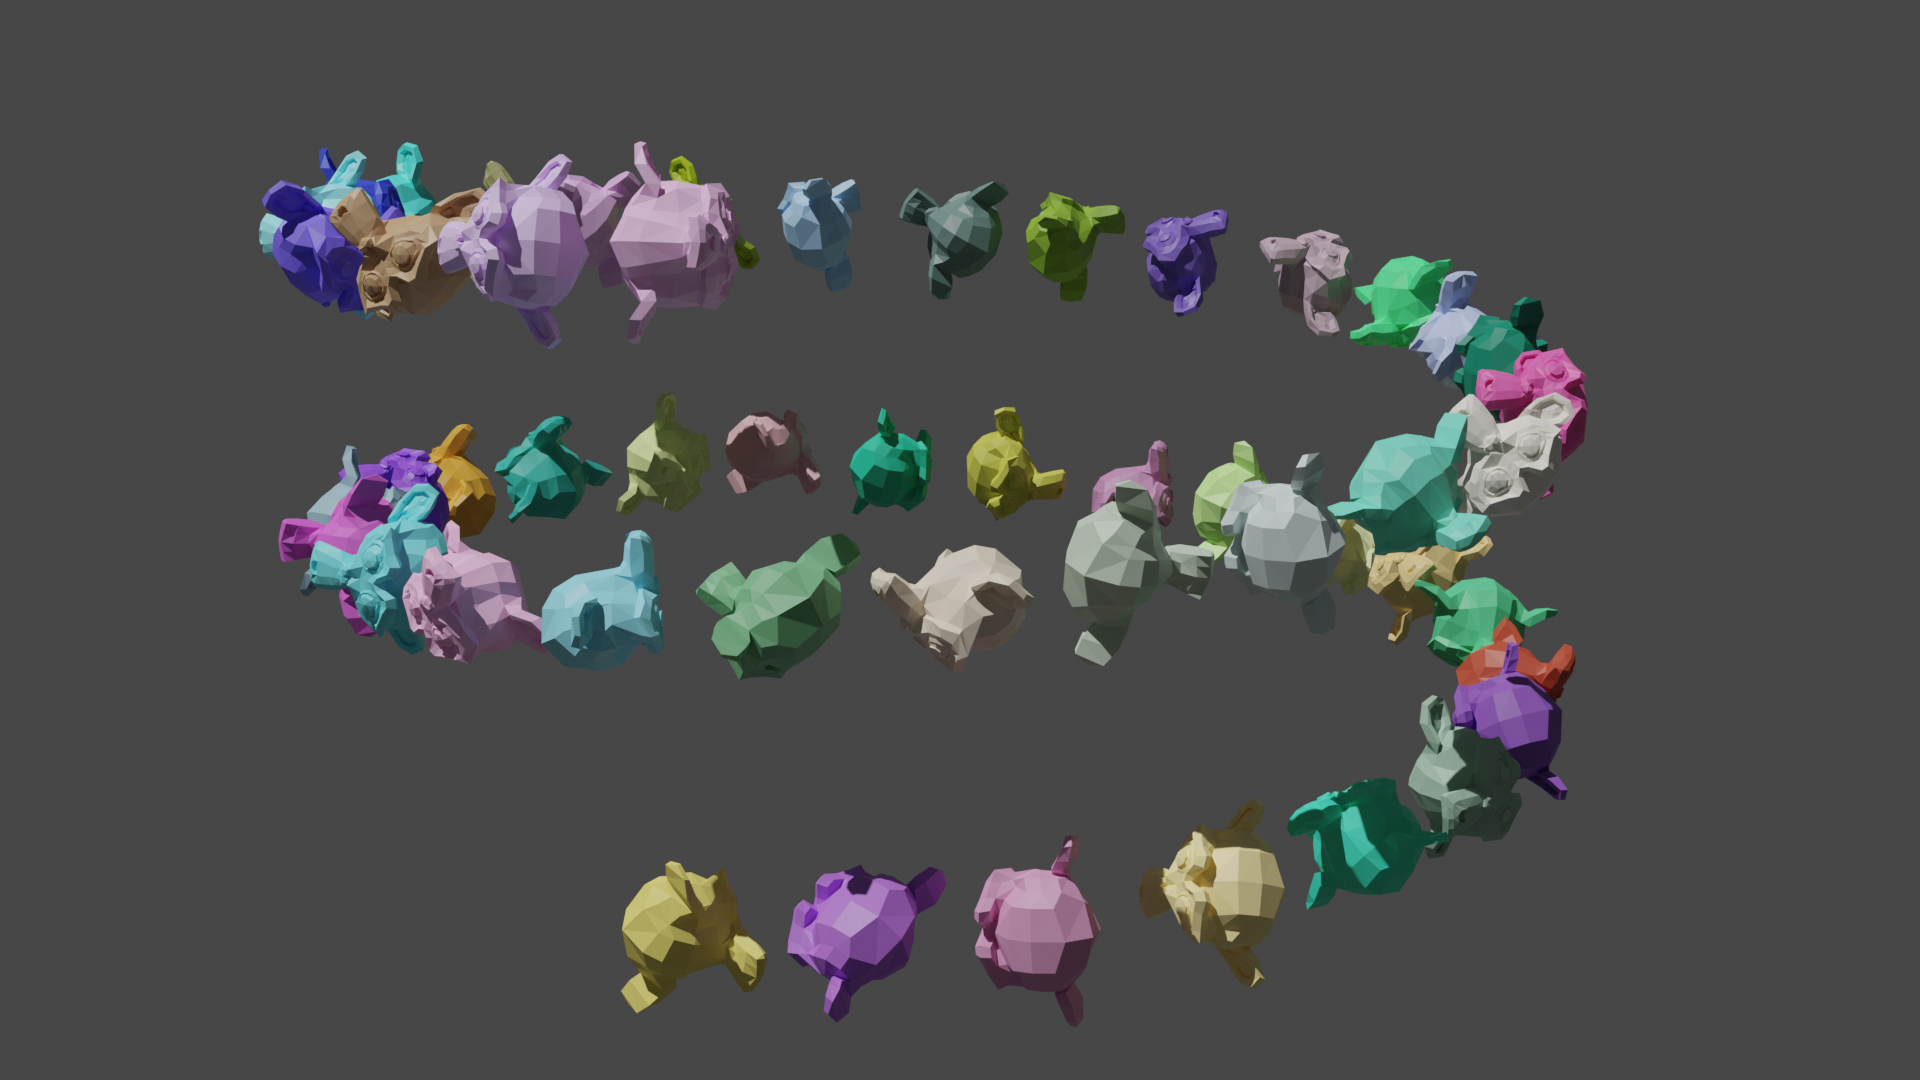
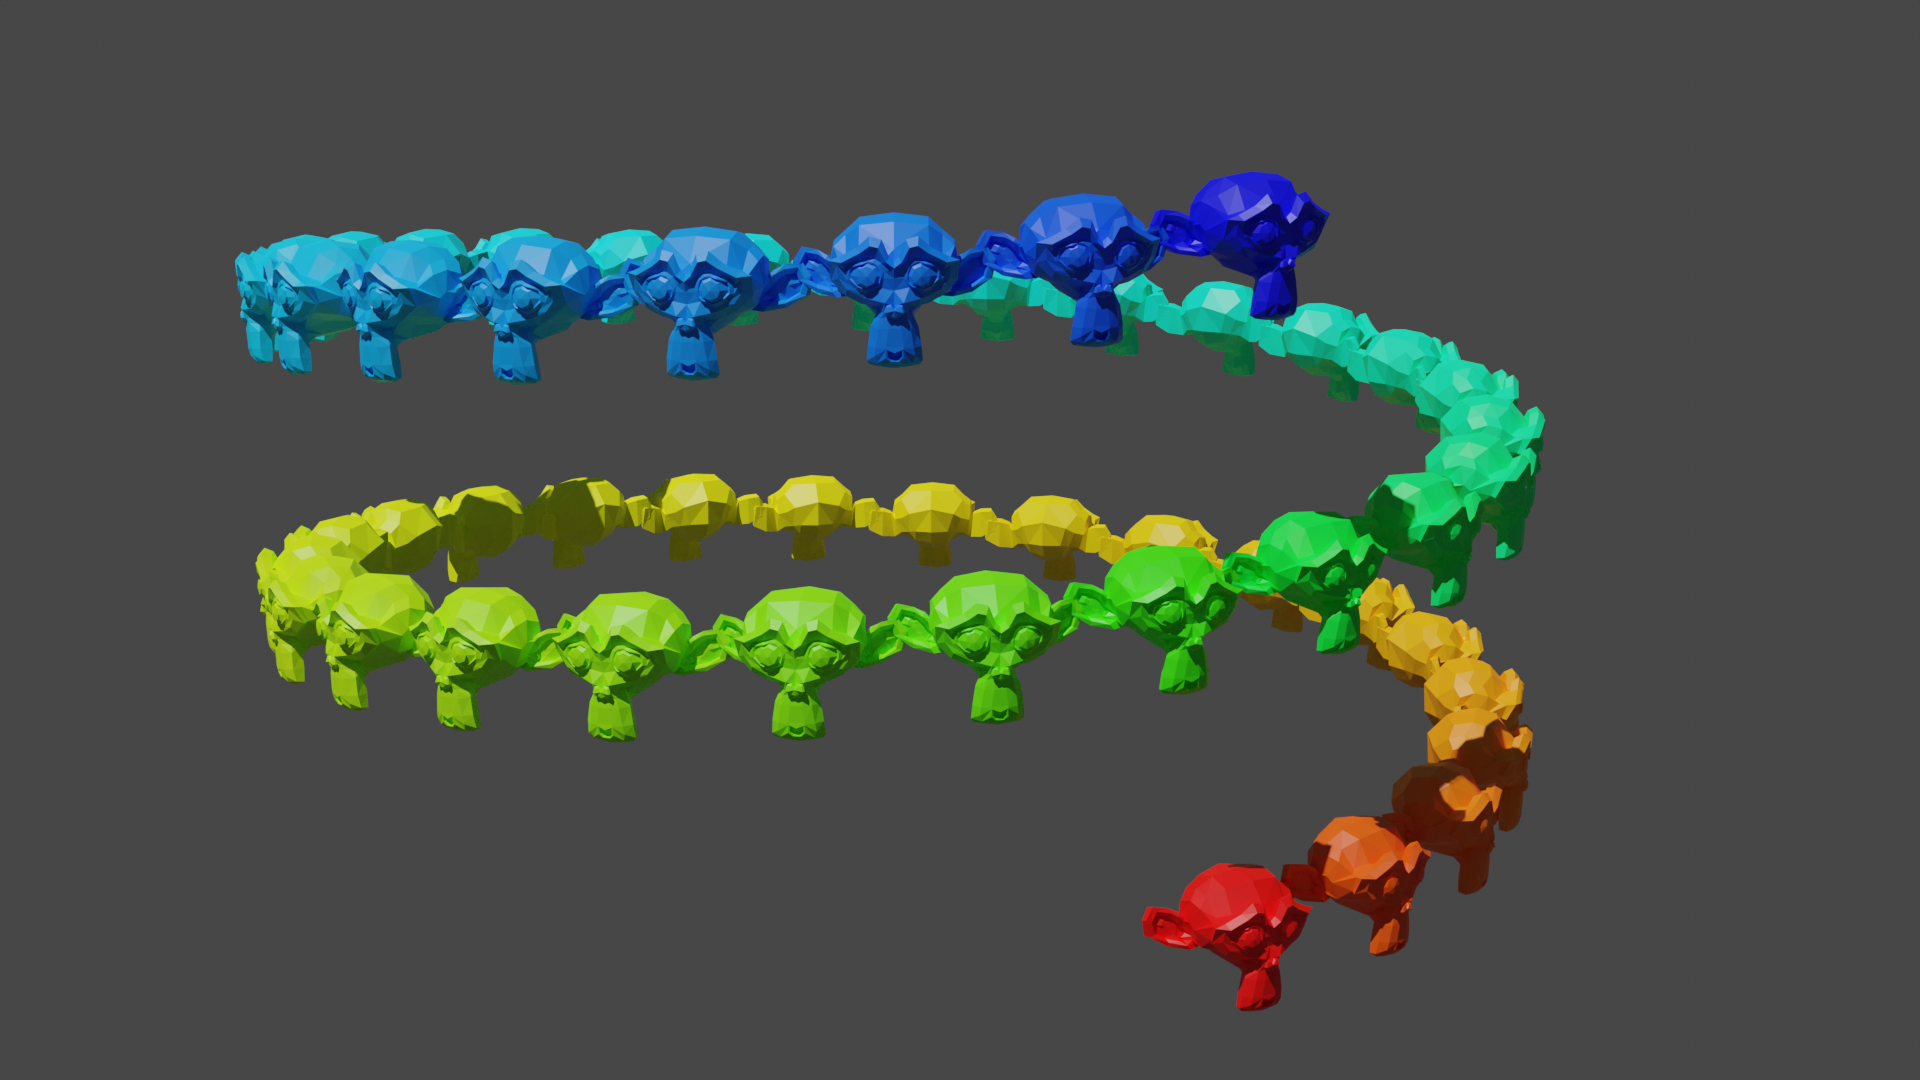
add support for setting marker rotations

Changed region(s): [[0.125, 0.1222, 0.8438, 0.9472]]

diff --git a/blender_plots/scatter.py b/blender_plots/scatter.py
@@ -1,10 +1,12 @@
 import numpy as np
 
 import bpy
+import mathutils as mu
 import blender_plots.blender_utils as bu
 
 FRAME_INDEX = "frame_index"
-POINT_COLOR = "point_color"
+MARKER_COLOR = "marker_color"
+MARKER_ROTATION = "marker_rotation"
 MARKER_TYPES = {
     "cones": "GeometryNodeMeshCone",
     "cubes": "GeometryNodeMeshCube",
@@ -30,11 +32,14 @@ class Scatter:
         name: name to use for blender object. Will delete any previous plot with the same name.
         marker_type: select appearance of points. Either MARKER_TYPE, "spheres", bpy_types.Mesh or bpy_types.Object
         marker_scale: xyz scale for markers
+        marker_rotation: Nx3 (euler angles in radians) or Nx3x3 (rotation matrices) array specifying the rotation for
+            each marker. Or "random" for applying a random rotation to each marker.
+        randomize_rotation: If set to True randomize the rotation of each marker. Overrides marker_rotation.
         marker_kwargs: additional arguments for configuring markers
     """
 
     def __init__(self, x, y=None, z=None, color=None, name="scatter", marker_type="cubes", marker_scale=None,
-                 randomize_rotation=False, **marker_kwargs):
+                 marker_rotation=None, randomize_rotation=False, **marker_kwargs):
         self.name = name
         self.base_object = None
         self.mesh = None
@@ -54,6 +59,7 @@ class Scatter:
                 **marker_kwargs
             )
         self.color = color
+        self.marker_rotation = marker_rotation
 
     @property
     def points(self):
@@ -72,7 +78,7 @@ class Scatter:
             self.mesh.vertices.foreach_set("co", self._points.reshape(-1))
 
         if self.n_frames is not None:
-            set_vertex_attribute(
+            bu.set_vertex_attribute(
                 self.mesh, FRAME_INDEX,
                 np.arange(0, self.n_frames)[None].repeat(self.n_points, axis=1).reshape(-1)
             )
@@ -94,21 +100,45 @@ class Scatter:
 
     def update_color(self):
         if self._color is not None:
-            match self._color.shape:
-                case (self.n_frames, self.n_points, 3 | 4):
-                    color = self._color.reshape(self.n_frames * self.n_points, -1)
-                case (self.n_points, 3 | 4):
-                    color = np.tile(self._color, (self.n_frames, 1)) if self.n_frames is not None else self._color
-                case (3 | 4, ):
-                    color = np.tile(self._color, (len(self.mesh.vertices), 1))
-                case _:
-                    raise ValueError(
-                        f"Invalid color shape: {self._color.shape} with {self.n_frames=}, {self.n_points=}")
-
+            color, _ = self.tile_data(self._color, [[3], [4]], "color")
             set_vertex_colors(self.mesh, color)
             self.color_material = get_vertex_color_material()
             self.mesh.materials.append(self.color_material)
             self.marker_modifier["Input_2"] = self.color_material
+
+    @property
+    def marker_rotation(self):
+        return self._marker_rotation
+
+    @marker_rotation.setter
+    def marker_rotation(self, marker_rotation):
+        self._marker_rotation = np.array(marker_rotation) if marker_rotation is not None else marker_rotation
+        self.update_marker_rotation()
+
+    def update_marker_rotation(self):
+        if self._marker_rotation is not None:
+            marker_rotation, rotation_dims = self.tile_data(self._marker_rotation, [[3], [3, 3]], "marker rotation")
+            if rotation_dims == [3, 3]:
+                marker_rotation = np.stack([np.array(mu.Matrix(r).to_euler()) for r in marker_rotation])
+            bu.set_vertex_attribute(self.mesh, MARKER_ROTATION, marker_rotation, "FLOAT_VECTOR")
+
+    def tile_data(self, data_array, valid_dims, name=""):
+        """Tile or reshape data_array with shape NxTx(dims), Nx(dims) or (dims) to shape (N*T)x(dims)."""
+        match data_array.shape:
+            case (self.n_frames, self.n_points, *dims) if dims in valid_dims:
+                out_array = data_array.reshape(self.n_frames * self.n_points, *dims)
+            case (self.n_points, *dims) if dims in valid_dims:
+                if self.n_frames is not None:
+                    out_array = np.tile(data_array, (self.n_frames, *([1] * len(dims))))
+                else:
+                    out_array = data_array
+            case (*dims, ) if dims in valid_dims:
+                n_points_total = self.n_points * (1 if self.n_frames is None else self.n_frames)
+                out_array = np.tile(data_array, (n_points_total, *([1]*len(dims))))
+            case _:
+                raise ValueError(
+                    f"Invalid {name} data shape: {data_array.shape} with {self.n_frames=}, {self.n_points=}")
+        return out_array, dims
 
 
 def get_points_array(x, y, z):
@@ -148,42 +178,34 @@ def get_points_array(x, y, z):
     return points, n_frames, n_points
 
 
-def set_vertex_attribute(mesh, attribute_name, attribute_values):
-    if attribute_name not in mesh.attributes:
-        mesh.attributes.new(name=attribute_name, type="FLOAT", domain="POINT")
-    mesh.attributes[attribute_name].data.foreach_set("value", attribute_values)
-
-
 def set_vertex_colors(mesh, color):
-    """Add a point_color attribute to each vertex in the mesh with values given by `color`"""
-    if np.array(color).ndim == 1:
-        color = np.tile(color, (len(mesh.vertices), 1))
+    """Add a marker_color attribute to each vertex in `mesh` with values from (n_vertices)x(3 or 4) array `color`"""
     if color.shape[1] == 3:
         color = np.hstack([color, np.ones((len(color), 1))])
     elif not color.shape[1] == 4:
-        raise ValueError(f"Invalid color array shape {color.shape}, expectex Nx3 or Nx4")
+        raise ValueError(f"Invalid color array shape {color.shape}, expected Nx3 or Nx4")
     if len(mesh.vertices) != len(color):
         raise ValueError(f"Got {len(mesh.vertices)} vertices and {len(color)} color values")
 
-    if POINT_COLOR not in mesh.attributes:
-        mesh.attributes.new(name=POINT_COLOR, type="FLOAT_COLOR", domain="POINT")
-    mesh.attributes[POINT_COLOR].data.foreach_set("color", color.reshape(-1))
+    if MARKER_COLOR not in mesh.attributes:
+        mesh.attributes.new(name=MARKER_COLOR, type="FLOAT_COLOR", domain="POINT")
+    mesh.attributes[MARKER_COLOR].data.foreach_set("color", color.reshape(-1))
 
 
 def get_vertex_color_material():
-    """Create a material that obtains its color from the point_color attribute"""
+    """Create a material that obtains its color from the marker_color attribute"""
     material = bpy.data.materials.new("color")
     material.use_nodes = True
     color_node = material.node_tree.nodes.new("ShaderNodeAttribute")
-    color_node.attribute_name = POINT_COLOR
+    color_node.attribute_name = MARKER_COLOR
 
     material.node_tree.links.new(color_node.outputs["Color"],
                                  material.node_tree.nodes["Principled BSDF"].inputs["Base Color"])
     return material
 
 
-def add_mesh_markers(base_object, marker_type, randomize_rotation=False, marker_scale=None, n_frames=0,
-                     **marker_kwargs):
+def add_mesh_markers(base_object, marker_type, randomize_rotation=False, marker_scale=None,
+                     n_frames=0, **marker_kwargs):
     """Create a geometry node modifier that instances a mesh on each vertex.
     Args:
         base_object: object containing mesh with vertices to instance on.
@@ -205,6 +227,9 @@ def add_mesh_markers(base_object, marker_type, randomize_rotation=False, marker_
     modifier.node_group.inputs.new("NodeSocketFloat", "Frame Index")  # Input_4
     modifier["Input_4_use_attribute"] = True
     modifier["Input_4_attribute_name"] = FRAME_INDEX
+    modifier.node_group.inputs.new("NodeSocketVector", "Marker Rotation")  # Input_5
+    modifier["Input_5_use_attribute"] = True
+    modifier["Input_5_attribute_name"] = MARKER_ROTATION
 
     points_socket = node_linker.new_node(
         "GeometryNodeMeshToPoints",
@@ -237,7 +262,8 @@ def add_mesh_markers(base_object, marker_type, randomize_rotation=False, marker_
         points=points_socket,
         selection=None if n_frames is None else get_frame_selection_node(modifier, n_frames).outputs["Value"],
         instance=colored_mesh,
-        scale=marker_scale
+        rotation=node_linker.group_input.outputs["Marker Rotation"],
+        scale=marker_scale,
     )
     if randomize_rotation:
         # these rotation are not uniform (some orientations will be more likely than others)

diff --git a/blender_plots/blender_utils.py b/blender_plots/blender_utils.py
@@ -77,6 +77,13 @@ def new_empty(name, object_data=None, select=True):
     return new_object
 
 
+def set_vertex_attribute(mesh, attribute_name,  attribute_values, attribute_type="FLOAT"):
+    if attribute_name not in mesh.attributes:
+        mesh.attributes.new(name=attribute_name, type=attribute_type, domain="POINT")
+    data_type = "vector" if attribute_type == "FLOAT_VECTOR" else "value"
+    mesh.attributes[attribute_name].data.foreach_set(data_type, attribute_values.reshape(-1))
+
+
 def python_arg_to_blender_key(arg):
     """convert python argument to geometry node name, e.g. radius->Radius, instance_index->Instance Index"""
     return ' '.join([s.capitalize() for s in arg.split('_')])

diff --git a/README.md b/README.md
@@ -23,7 +23,7 @@ making plots. It currently supports scatterplots through `bplt.Scatter`.
 
 Since the built-in text editor isn't great I recommend using [jupyterlab](https://jupyter.org/)
 with
-a [blender kernel](https://blender.stackexchange.com/questions/172249/how-can-i-use-blenders-python-api-from-a-ipython-terminal-or-jupyter-notebook)
+a [blender kernel](https://github.com/cheng-chi/blender_notebook)
 for advanced use-cases.
 
 ## Examples
@@ -140,28 +140,59 @@ This is achieved by automatically converting input arguments to geometry node pr
 See [blender_utils.py](https://github.com/Linusnie/blender_plots/blob/main/blender_utils.py)
 for more details.
 
+### Rotating markers
+Each marker can be assigned a rotation using the argument `marker_rotation=...`, similarly to the color argument it
+supports passing a single value for all points, one for each point, or one for each point and timestamp.
+The supported formats are XYZ euler angles in radians (by passing an Nx3 or NxTx3 array) or rotation matrices
+(by passing a Nx3x3 or NxTx3x3 array). As shown in the previous examples passing `randomize_rotation=True` assigns a
+random rotation to each marker.
+
+```
+def get_rotaitons_facing_point(origin, points):
+    n_points = len(points)
+    d = (origin - points) / np.linalg.norm(origin - points, axis=-1)[:, None]
+    R = np.zeros((n_points, 3, 3))
+    R[..., -1] = d
+    R[..., 0] = np.cross(d, np.random.randn(n_points, 3))
+    R[..., 0] /= np.linalg.norm(R[..., 0], axis=-1)[..., None]
+    R[..., 1] = np.cross(R[..., 2], R[..., 0])
+    return R
+
+n = 5000
+points = np.random.randn(n, 3) * 20
+rots = get_rotaitons_facing_point(np.zeros(3), points)
+s = bplt.Scatter(
+    points,
+    marker_rotation=rots,
+    color=np.array([[1.0, 0.1094, 0.0], [0.0, 0.1301, 1.0]])[np.random.randint(2, size=n)],
+    size=(1, 1, 5),
+)
+```
+
+![image info](./images/rots.png)
+
 ### Custom mesh as marker
 
 You can also use an existing mesh by passing it to `marker_type=...`:
 
 ```
+from colorsys import hls_to_rgb
 bpy.ops.mesh.primitive_monkey_add()
 monkey = bpy.context.active_object
 monkey.hide_viewport = True
 monkey.hide_render = True
 n = int(.5e2)
+
 scatter = bplt.Scatter(
-    np.stack([
-        np.cos(np.linspace(0, 1, n)*np.pi*4),
-        np.sin(np.linspace(0, 1, n)*np.pi*4),
-        np.linspace(0, 1, n)
-    ], axis=-1) * 50,
-    color=np.random.rand(n, 3),
+    50 * np.cos(np.linspace(0, 1, n)*np.pi*4),
+    50 * np.sin(np.linspace(0, 1, n)*np.pi*4),
+    50 * np.linspace(0, 1, n),
+    color=np.array([hls_to_rgb(2/3 * i/(n-1), 0.5, 1) for i in range(n)]),
     marker_type=monkey,
     radius_bottom=1,
     radius_top=3,
     marker_scale=[5]*3,
-    randomize_rotation=True
+    marker_rotation=np.array([np.zeros(n), np.zeros(n), np.pi/2 + np.linspace(0, 4 * np.pi, n)]).T,
 )
 ```
 
